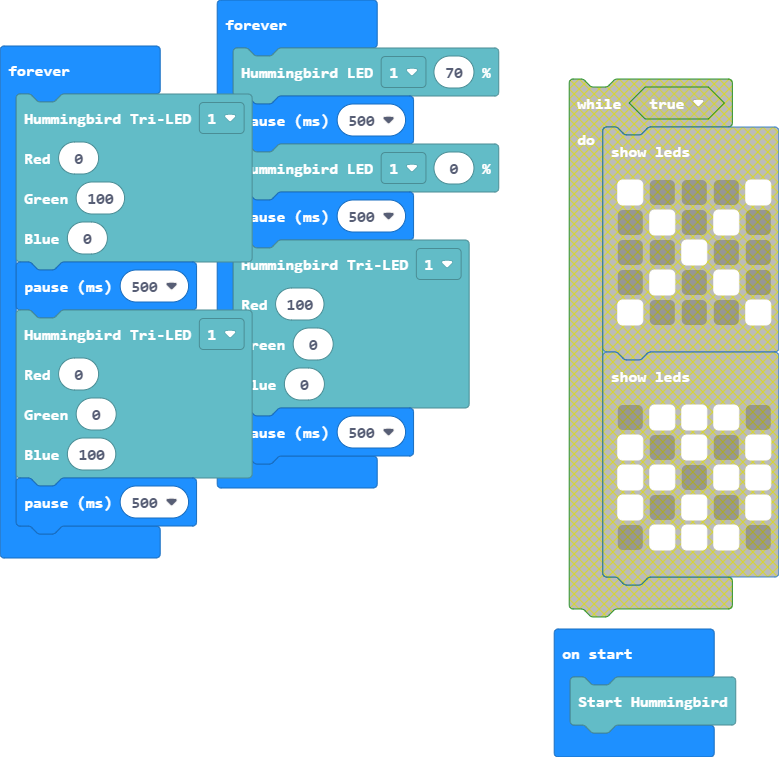
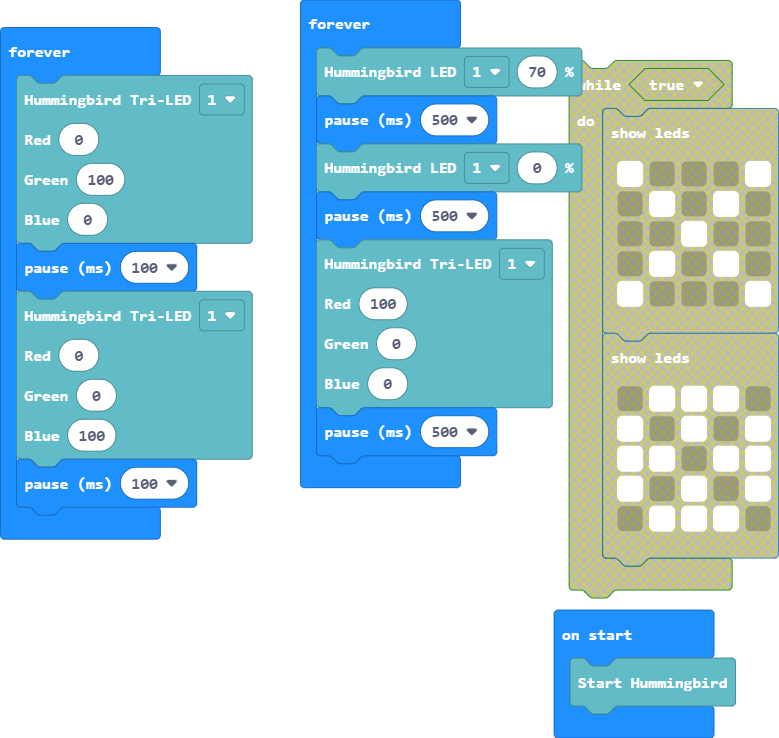
2023/03/29 changes

diff --git a/main.ts b/main.ts
@@ -19,12 +19,12 @@ basic.forever(function () {
     100,
     0
     )
-    basic.pause(500)
+    basic.pause(100)
     hummingbird.setTriLED(
     TwoPort.One,
     0,
     0,
     100
     )
-    basic.pause(500)
+    basic.pause(100)
 })
